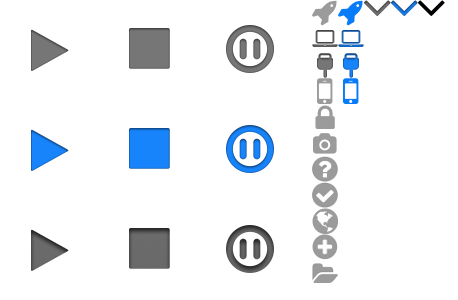
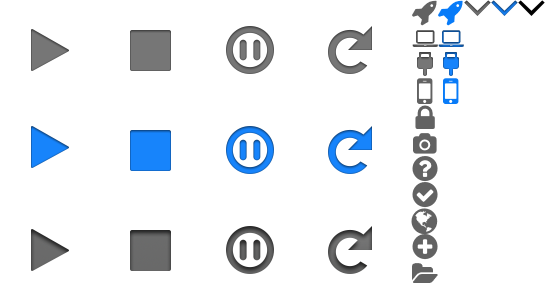
Bug 1057958 - Add reload button to webide. r=jryans
UltraBlame original commit: 076790f9ebc2fae2619239cd157965fe90580643

diff --git a/browser/devtools/webide/themes/webide.css b/browser/devtools/webide/themes/webide.css
@@ -54,13 +54,13 @@ window.busy-determined #action-busy-undetermined {
 
 .panel-button-anchor {
   list-style-image: url('icons.png');
-  -moz-image-region: rect(0px,391px,16px,364px);
+  -moz-image-region: rect(0px,491px,16px,464px);
   width: 12px;
   height: 7px;
 }
 
 .panel-button:hover > .panel-button-anchor {
-  -moz-image-region: rect(0px,445px,16px,418px);
+  -moz-image-region: rect(0px,545px,16px,518px);
 }
 
 
@@ -83,7 +83,7 @@ window.busy-determined #action-busy-undetermined {
 
 #project-panel-button.no-project > .panel-button-image {
   list-style-image: url("icons.png");
-  -moz-image-region: rect(260px,338px,286px,312px);
+  -moz-image-region: rect(260px,438px,286px,412px);
 }
 
 #project-panel-button > .panel-button-label {
@@ -94,13 +94,13 @@ window.busy-determined #action-busy-undetermined {
 
 #runtime-panel-button > .panel-button-image {
   list-style-image: url('icons.png');
-  -moz-image-region: rect(78px,338px,104px,312px);
+  -moz-image-region: rect(78px,438px,104px,412px);
   width: 13px;
   height: 13px;
 }
 
 #runtime-panel-button[active="true"] > .panel-button-image {
-  -moz-image-region: rect(78px,364px,104px,338px);
+  -moz-image-region: rect(78px,464px,104px,438px);
 }
 
 
@@ -133,6 +133,9 @@ window.busy-determined #action-busy-undetermined {
 #action-button-play:not([disabled="true"]):hover  { -moz-image-region: rect(200px,100px,300px,0) }
 #action-button-stop:not([disabled="true"]):hover  { -moz-image-region: rect(200px,200px,300px,100px) }
 #action-button-debug:not([disabled="true"]):not([active="true"]):hover { -moz-image-region: rect(200px,300px,300px,200px) }
+
+#action-button-play.reload { -moz-image-region: rect(0,400px,100px,303px) }
+#action-button-play.reload:hover { -moz-image-region: rect(200px,400px,300px,303px) }
 
 #action-button-debug[active="true"] { -moz-image-region: rect(100px,300px,200px,200px) }
 
@@ -196,9 +199,9 @@ panel > .panel-arrowcontainer > .panel-arrowcontent {
   list-style-image: url("icons.png");
 }
 
-.project-panel-item-newapp       { -moz-image-region: rect(234px,338px,260px,312px) }
-.project-panel-item-openpackaged { -moz-image-region: rect(260px,338px,286px,312px) }
-.project-panel-item-openhosted   { -moz-image-region: rect(208px,338px,234px,312px) }
+.project-panel-item-newapp       { -moz-image-region: rect(234px,438px,260px,412px) }
+.project-panel-item-openpackaged { -moz-image-region: rect(260px,438px,286px,412px) }
+.project-panel-item-openhosted   { -moz-image-region: rect(208px,438px,234px,412px) }
 
 
 
@@ -224,17 +227,17 @@ panel > .panel-arrowcontainer > .panel-arrowcontent {
   list-style-image: url("icons.png");
 }
 
-#runtime-details                { -moz-image-region: rect(156px,338px,182px,312px) }
-#runtime-screenshot             { -moz-image-region: rect(130px,338px,156px,312px) }
-#runtime-permissions            { -moz-image-region: rect(104px,338px,130px,312px) }
-#runtime-disconnect             { -moz-image-region: rect(52px,338px,78px,312px) }
-#runtime-panel-nousbdevice      { -moz-image-region: rect(156px,338px,182px,312px) }
-#runtime-panel-noadbhelper      { -moz-image-region: rect(234px,338px,260px,312px) }
-#runtime-panel-installsimulator { -moz-image-region: rect(0px,338px,26px,312px) }
-.runtime-panel-item-usb         { -moz-image-region: rect(52px,338px,78px,312px) }
-.runtime-panel-item-wifi        { -moz-image-region: rect(208px,338px,234px,312px) }
-.runtime-panel-item-custom      { -moz-image-region: rect(26px,338px,52px,312px) }
-.runtime-panel-item-simulator   { -moz-image-region: rect(0px,338px,26px,312px) }
+#runtime-details                { -moz-image-region: rect(156px,438px,182px,412px) }
+#runtime-screenshot             { -moz-image-region: rect(130px,438px,156px,412px) }
+#runtime-permissions            { -moz-image-region: rect(104px,438px,130px,412px) }
+#runtime-disconnect             { -moz-image-region: rect(52px,438px,78px,412px) }
+#runtime-panel-nousbdevice      { -moz-image-region: rect(156px,438px,182px,412px) }
+#runtime-panel-noadbhelper      { -moz-image-region: rect(234px,438px,260px,412px) }
+#runtime-panel-installsimulator { -moz-image-region: rect(0px,438px,26px,412px) }
+.runtime-panel-item-usb         { -moz-image-region: rect(52px,438px,78px,412px) }
+.runtime-panel-item-wifi        { -moz-image-region: rect(208px,438px,234px,412px) }
+.runtime-panel-item-custom      { -moz-image-region: rect(26px,438px,52px,412px) }
+.runtime-panel-item-simulator   { -moz-image-region: rect(0px,438px,26px,412px) }
 
 #runtime-actions {
   border-top: 1px solid rgba(221,221,221,1);

diff --git a/browser/devtools/webide/content/webide.js b/browser/devtools/webide/content/webide.js
@@ -752,6 +752,7 @@ let UI = {
     let playCmd = document.querySelector("#cmd_play");
     let stopCmd = document.querySelector("#cmd_stop");
     let debugCmd = document.querySelector("#cmd_toggleToolbox");
+    let playButton = document.querySelector('#action-button-play');
 
     if (!AppManager.selectedProject || AppManager.connection.status != Connection.Status.CONNECTED) {
       playCmd.setAttribute("disabled", "true");
@@ -760,9 +761,11 @@ let UI = {
     } else {
       let isProjectRunning = AppManager.isProjectRunning();
       if (isProjectRunning) {
+        playButton.classList.add("reload");
         stopCmd.removeAttribute("disabled");
         debugCmd.removeAttribute("disabled");
       } else {
+        playButton.classList.remove("reload");
         stopCmd.setAttribute("disabled", "true");
         debugCmd.setAttribute("disabled", "true");
       }
